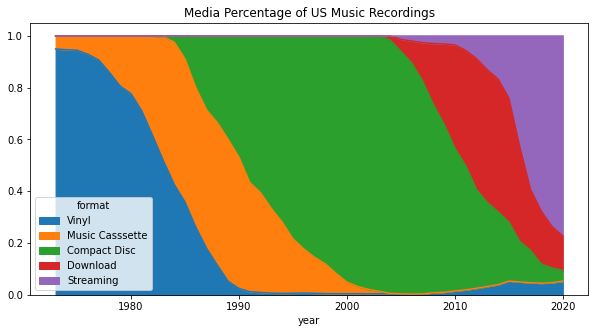
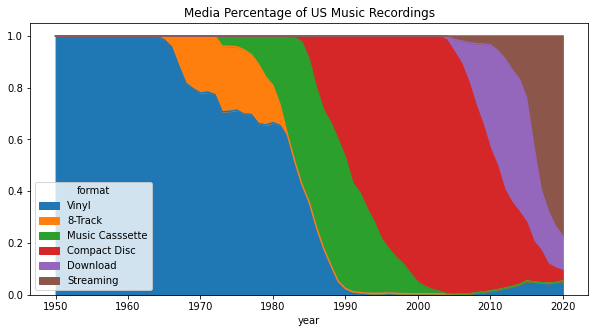
estimated revenue 1950-1972 added

diff --git a/MusicData/analytics/marketAnalytics.py b/MusicData/analytics/marketAnalytics.py
@@ -61,7 +61,7 @@ revenues.plot.bar(figsize=(10, 14), title='Revenue of US Recordings in Mio $')
 # analyse revenue per format
 formats = df.groupby(['format', 'year'])['value'].sum().unstack().T
 #print(formats.head(10))
-formats.plot.bar(stacked=True, figsize=(10, 14), title='Revenue of US Recordings per Forrmat in Mio $')
+formats.plot.bar(stacked=True, figsize=(10, 14), title='Revenue of US Recordings per Format in Mio $')
 
 # aggregate formats related to music albums
 formats['Vinyl'] = formats['LP/EP'] + formats['Vinyl Single']
@@ -70,7 +70,7 @@ formats['Music Casssette'] = formats['Cassette'] + formats['Cassette Single']
 formats['Download'] = formats['Download Album'] + formats['Download Single'] + formats['SoundExchange Distributions']
 formats['Streaming'] = formats['Limited Tier Paid Subscription'] + formats['On-Demand Streaming (Ad-Supported)'] + formats['Other Ad-Supported Streaming'] + formats['Paid Subscription']
 
-filtered = formats[['Vinyl', 'Music Casssette', 'Compact Disc', 'Download', 'Streaming']]
+filtered = formats[['Vinyl', '8-Track', 'Music Casssette', 'Compact Disc', 'Download', 'Streaming']]
 filtered.plot.area(stacked=True, figsize=(10, 8), title='Revenue of US Music Recordings per Media in Mio $')
 
 # Percentage of music market

diff --git a/MusicData/README.md b/MusicData/README.md
@@ -19,7 +19,7 @@ The data provided for this lab work is collected and prepared by the author and 
 
 - by the data available at the time of acquiring it
 - by the data that was available for free (Open Data)
-- by personal music style preferences
+- by personal music style preferrences
 
 Any message deduced from this data does therefore not reflect universal facts but are only valid for the scope of the current data.
 
@@ -38,7 +38,7 @@ ArtistInfo is available as App for iOS and macOS as well as a Web front-end at [
   - Web: https://music.metason.net/famousArtists.html
 - Data was collected in 2019 by Web crawling of
   - top100 lists of music community Web sites
-- More details on Artists is available via
+- More details on Atists is available via
   - Universal URL: https://music.metason.net/artistinfo?name=`artist name`
   - Sample URL: [https://music.metason.net/artistinfo?name=Radiohead](https://music.metason.net/artistinfo?name=Radiohead)
 
@@ -50,7 +50,7 @@ ArtistInfo is available as App for iOS and macOS as well as a Web front-end at [
 - Data was collected in 2019 by Web crawling of
   - best-of lists from music community Web sites
   - top ratings of e-commerce Web sites selling music (e.g., Amazon)
-- More details on albums is available via
+- More details on Albums is available via
   - Universal URL: https://music.metason.net/artistinfo?name=`artist name`&title=`album title`
   - Sample URL: [https://music.metason.net/artistinfo?name=Radiohead&title=Man%20Of%20War](https://music.metason.net/artistinfo?name=Radiohead&title=Man%20Of%20War)
 
@@ -58,16 +58,17 @@ ArtistInfo is available as App for iOS and macOS as well as a Web front-end at [
 
 Sales data from the Recording Industry Association of America (RIAA).
 
-- 50+ years of sales by media, from vinyl to streaming
-- Data: [data/USMusicMarket.csv](data/USMusicMarket.csv)
+- 70 years of sales by media, from vinyl to streaming
+- Data from 1973-2020: [data/USMusicMarket.csv](data/USMusicMarket.csv)
 - Source: https://www.riaa.com/u-s-sales-database/
 - Revenue values are in Millions USD (adjusted for inflation)
+- Data from 1950-1972 are estimated from different sources
 
 ---
 
 ## Info Vis Process
 
-Creating convincing Info Vis is typically an iterative process:
+Crreating convincing Info Vis is typically an iterative process:
 
 1. Data Processing
    - Data Acquisition and Extraction
@@ -79,7 +80,7 @@ Creating convincing Info Vis is typically an iterative process:
 3. Presentation Authoring
    - Story creation: open questions, interesting insights, messages, ...
    - Layout: chart type(s), dimensions, data mappings, ...
-   - Styling: color palettes, typography
+   - Styling: color palletes, typography
    - Text messages: title, subtitle, captions, annotations, highlights
    - Interactions & animations (optional, not for this lab work)
 4. Back to step 1 or 2 to improve information visualization
@@ -170,8 +171,8 @@ All good data visualizations start with a good question.
 - Who gets more famous: Artists or Bands?
   - Already done: see `Artists versus Bands` below
   - Sample code: [infovis/artistsBands.py](infovis/artistsBands.py)
-- Do individual artists get more famous than bands in recent years?
-  - Already done: see `Famous Musicians and Bands over the Last 100 Years` below
+- Get individual artists more famous than bands in recent years?
+  - Already done: see `Famous Mussicians and Bands over the Last 100 Years` below
   - Sample code: [infovis/artistsOverTime.py](infovis/artistsOverTime.py)
 - What are the most used words in album titles?
   - Already done: see `Most Used Words in Title of Recommended Albums`below
@@ -192,9 +193,9 @@ All good data visualizations start with a good question.
 
 ## Sample Information Visualization
 
-When preparing visualizations for an audience (for a report, a company presentation, a Web page, ...), attention must be paid to many details. You therefore want to have control over the details of your generated charts. A very prominent data vis library used in the Python community is **matplotlib**. It is by the way the vis library under the hood of pandas plotting functionality. Pandas internally calls matplotlib functions to create charts.
+When preparing visualizations for an audience (for a report, a company presentation, a Web page, ...), attention must be paid to many details. You therefore want to have control over the details of your generated charts. A very prominent data vis library used in the Python community is **matplotlib**. It is by the way the vis library under the hood of pandas plotting functionality. Pandas internaly calls matplotlib functions to create charts.
 
-Matplotlib has many plotting methods that make nearly any kind of chart imaginable (an exception is the visualization of hierarchical data like tree structures). Via an object-oriented interface you have control over all aspects of data charts (layout, size, color, text, fonts, axis, ticks, etc.). This makes matplotlib very powerful but not easy to learn. Take this as a challenge ...
+Matplotlib has many plotting methods that make nearly any kind of chart imaginable (an exception is the visualization of hierarchical data like tree structures). Via an object-oriented interface you have control over all apects of data charts (layout, size, color, text, fonts, axis, ticks, etc.). This makes matplotlib very powerful but not easy to learn. Take this as a challenge ...
 
 ### Styling
 
@@ -234,7 +235,7 @@ Start your lab work ...
 ### Setup Your Environment
 
 1. Clone this repository to your computer
-2. Install [pandas](https://pandas.pydata.org) and [matplotlib](https://matplotlib.org) when not already done
+2. Install [panda](https://pandas.pydata.org) and [matplotlib](https://matplotlib.org) when not already done
 3. Run the sample code
    - Hint: where necessary fix the file path to the data to match the current working directory of your IDE
    - For analytics tasks the code is run as Jupyter notebook to interactively explore the data (charts are not saved)
